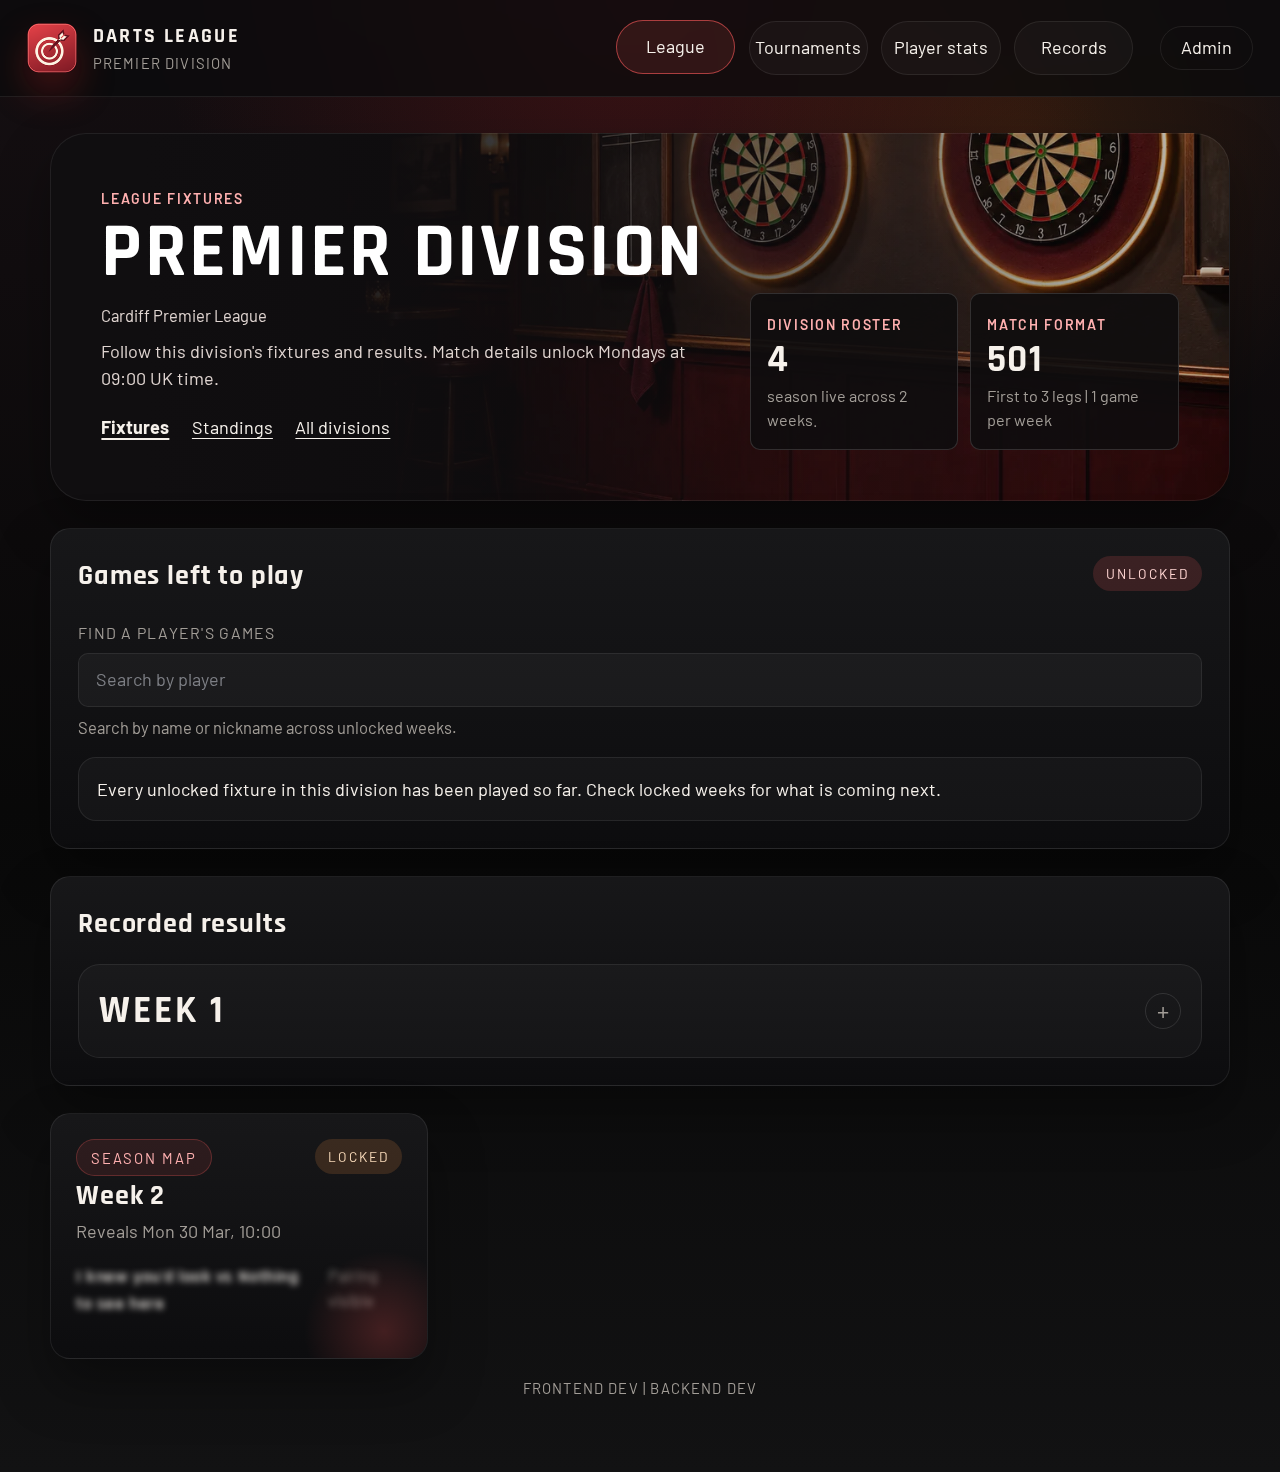
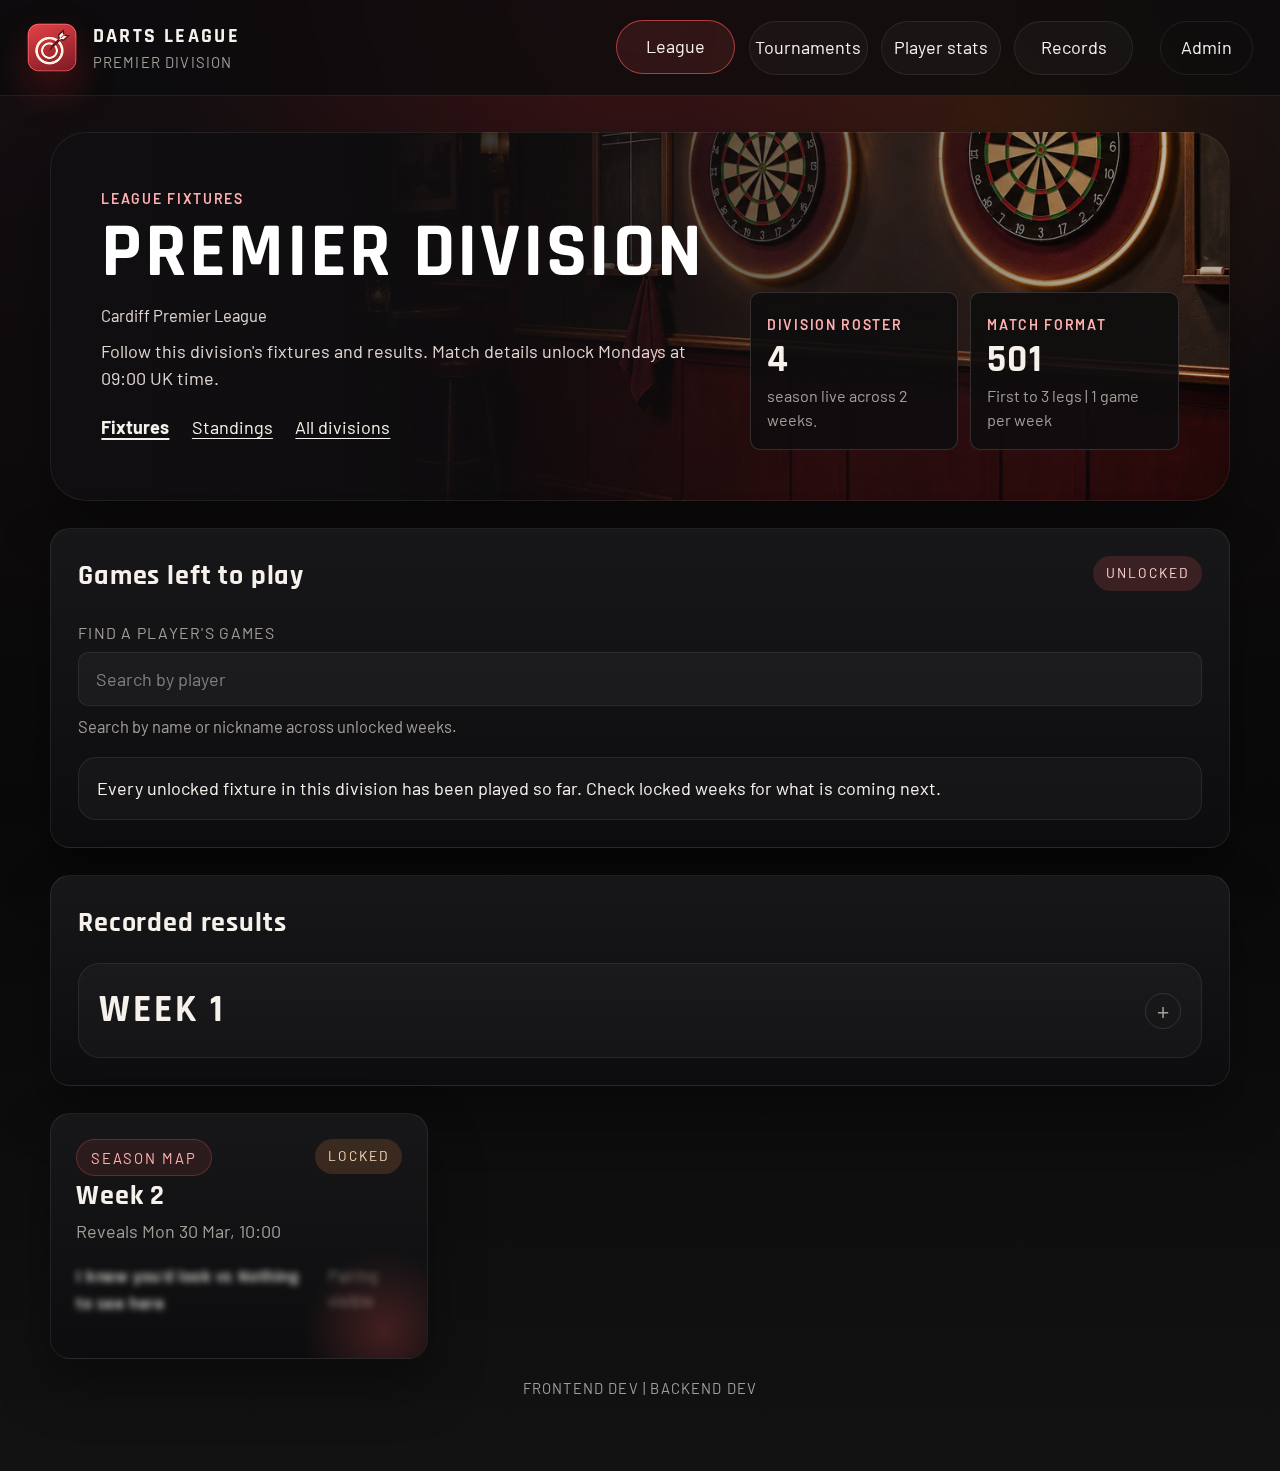
Match Admin control height to public navigation

diff --git a/frontend/tests/smoke.spec.ts b/frontend/tests/smoke.spec.ts
@@ -487,15 +487,21 @@ test('register, assign divisions, start season, enter result, and view division 
 test('public navigation fits on one line and exposes Admin on mobile', async ({ page }) => {
   await page.route('**/api/season', route => route.fulfill({ json: { registration_open: true, status: 'registration_open' } }))
   await page.goto('/divisions/premier')
-  for (const width of [320, 375, 480, 481, 640, 768, 1181, 1280]) {
+  const nav = page.getByRole('navigation', { name: 'Primary' })
+  const admin = page.getByRole('link', { name: 'Admin', exact: true })
+  const more = page.locator('summary').filter({ hasText: /^More$/ })
+  for (const width of [320, 375, 480, 481, 640, 641, 768, 1181, 1280]) {
     await page.setViewportSize({ width, height: 850 })
     await expectSingleRowNavigation(page, 4)
+    const adminControl = width <= 640 ? more : admin
+    await expect(adminControl).toBeVisible()
+    const adminHeight = await adminControl.evaluate(control => control.getBoundingClientRect().height)
+    const navHeight = await nav.getByRole('link', { name: 'League', exact: true })
+      .evaluate(link => link.getBoundingClientRect().height)
+    expect(adminHeight, `Admin control height at ${width}px`).toBe(navHeight)
   }
-  const admin = page.getByRole('link', { name: 'Admin', exact: true })
-  await expect(admin).toBeVisible()
   await page.setViewportSize({ width: 375, height: 850 })
   await expect(admin).toBeHidden()
-  const more = page.locator('summary').filter({ hasText: /^More$/ })
   await more.focus()
   await more.press('Enter')
   await expect(admin).toBeVisible()

diff --git a/frontend/src/publicPages.css b/frontend/src/publicPages.css
@@ -353,6 +353,7 @@
 
 .public-navigation a {
   flex: 1 1 7.5rem;
+  padding-block: 0;
 }
 
 .public-admin-menu {
@@ -365,7 +366,7 @@
 .public-admin-menu summary {
   display: inline-flex;
   align-items: center;
-  min-height: 44px;
+  min-height: var(--control-height);
   padding-inline: 0.75rem;
   border: var(--border-panel);
   border-radius: var(--radius-pill);
